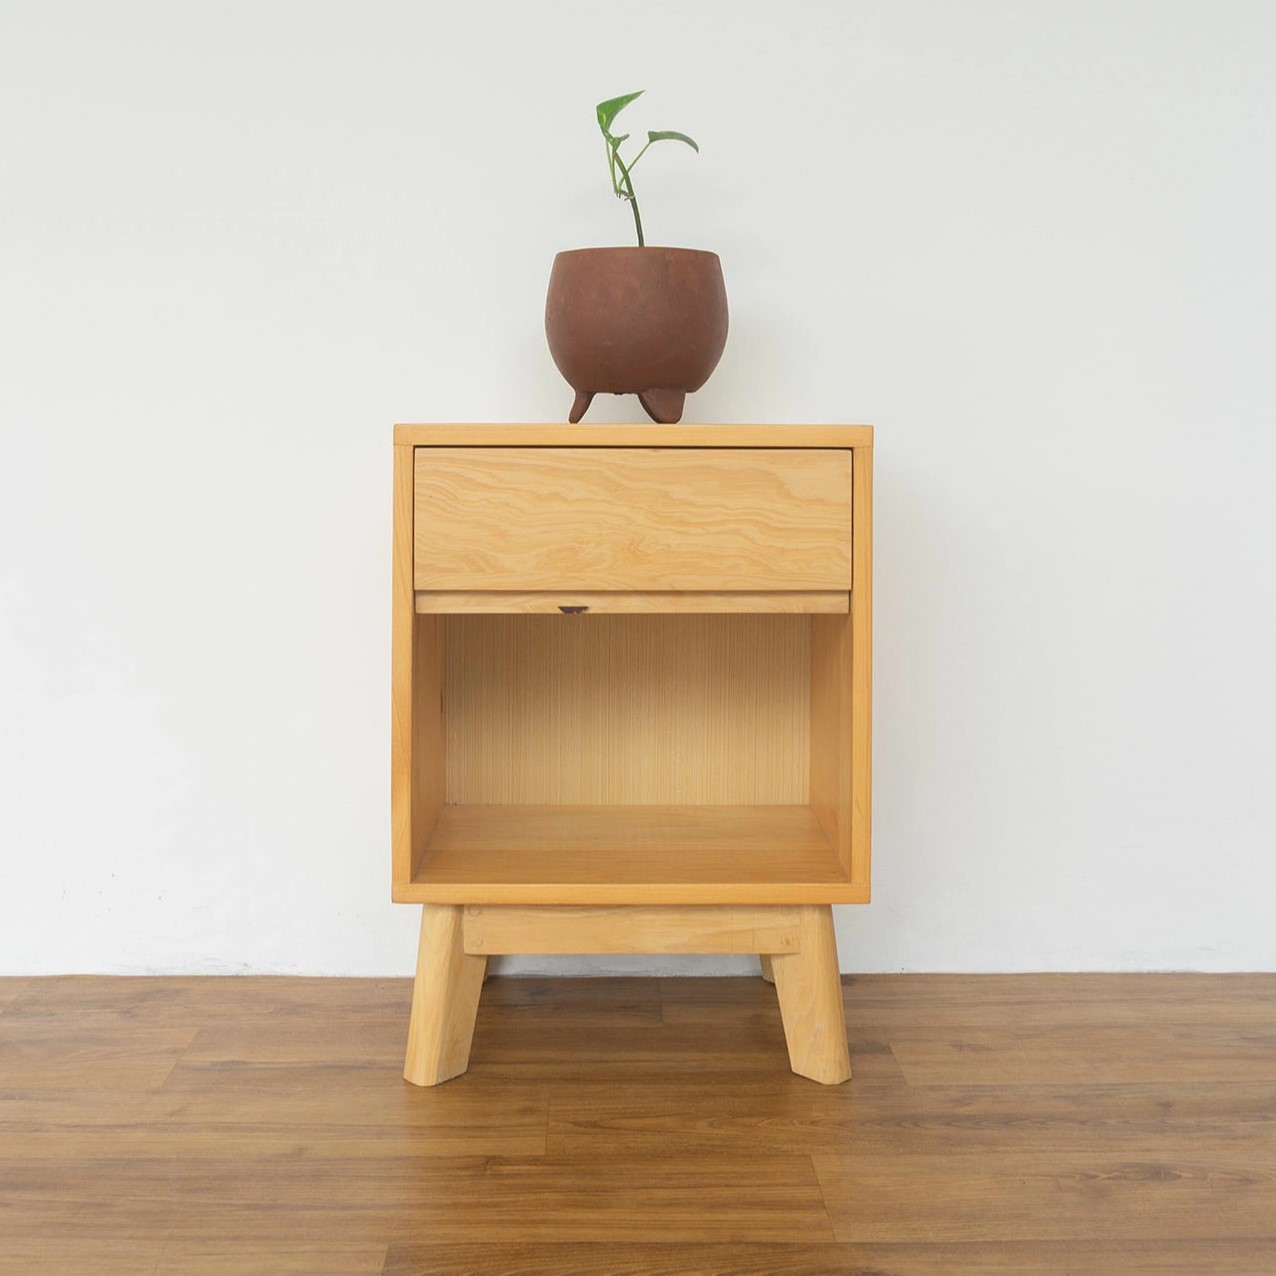
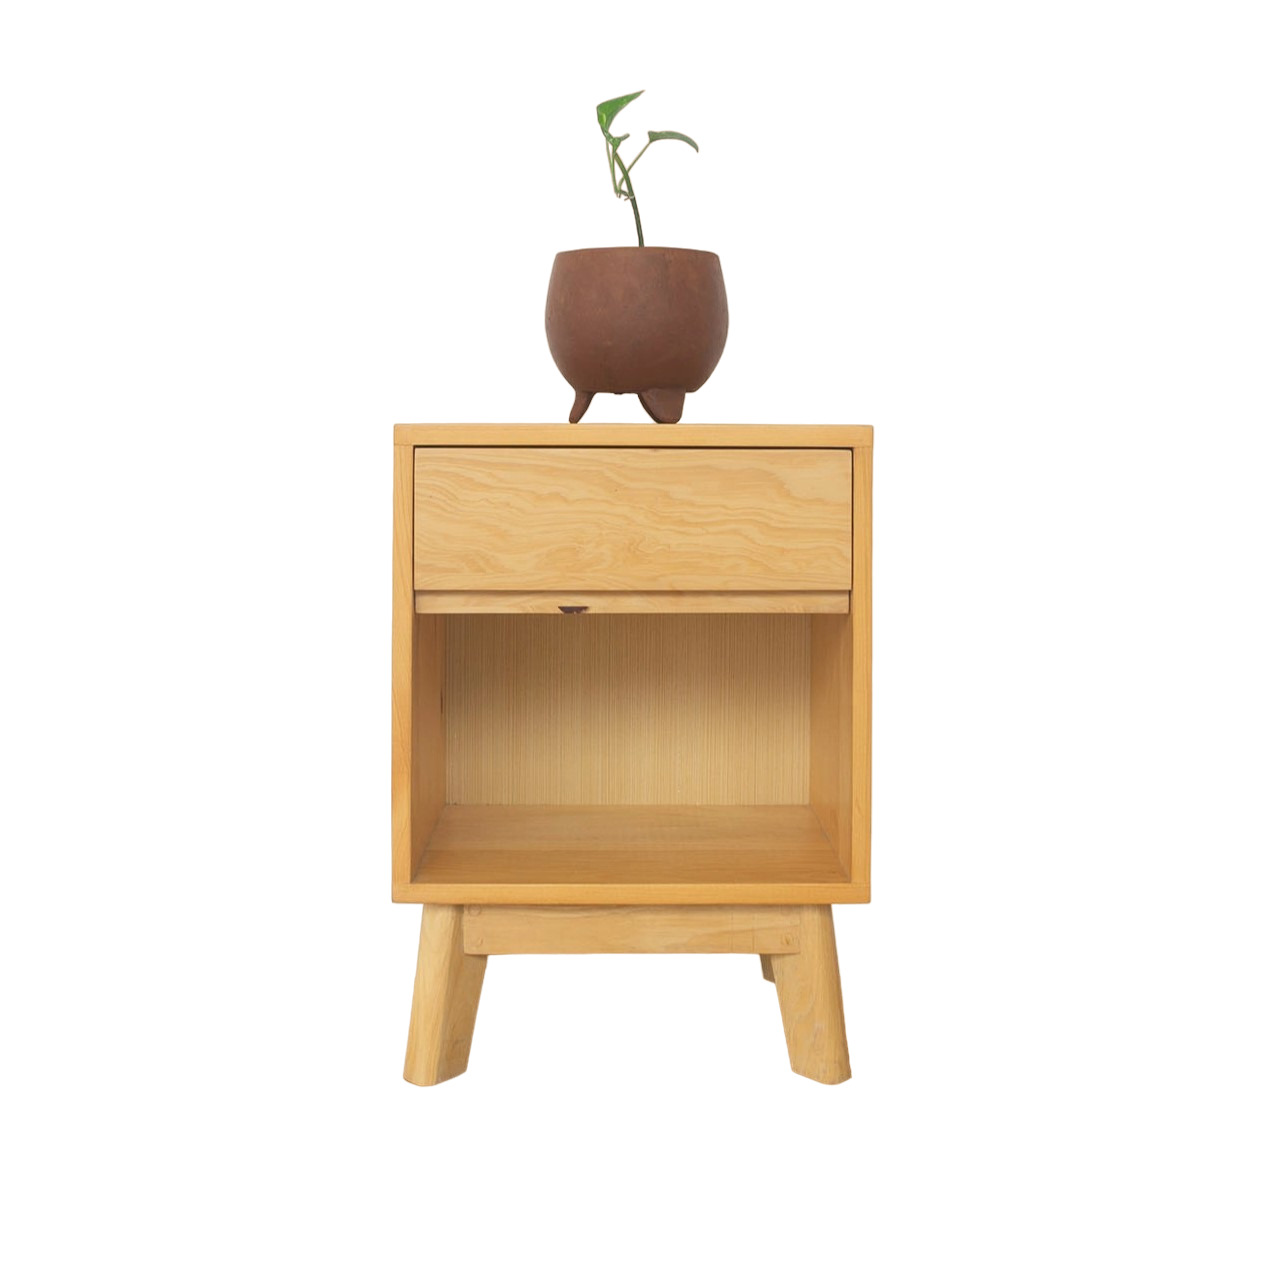
remove bg from item's image

diff --git a/src/pages/Home.jsx b/src/pages/Home.jsx
@@ -19,7 +19,7 @@ import paypal from "../assets/paypal.png"
 import { Link } from "react-router-dom"
 import goTop from "../components/goTop"
 
-// home
+// /home
 function Home({ cartItems, setCartItems }){
 
     return (
